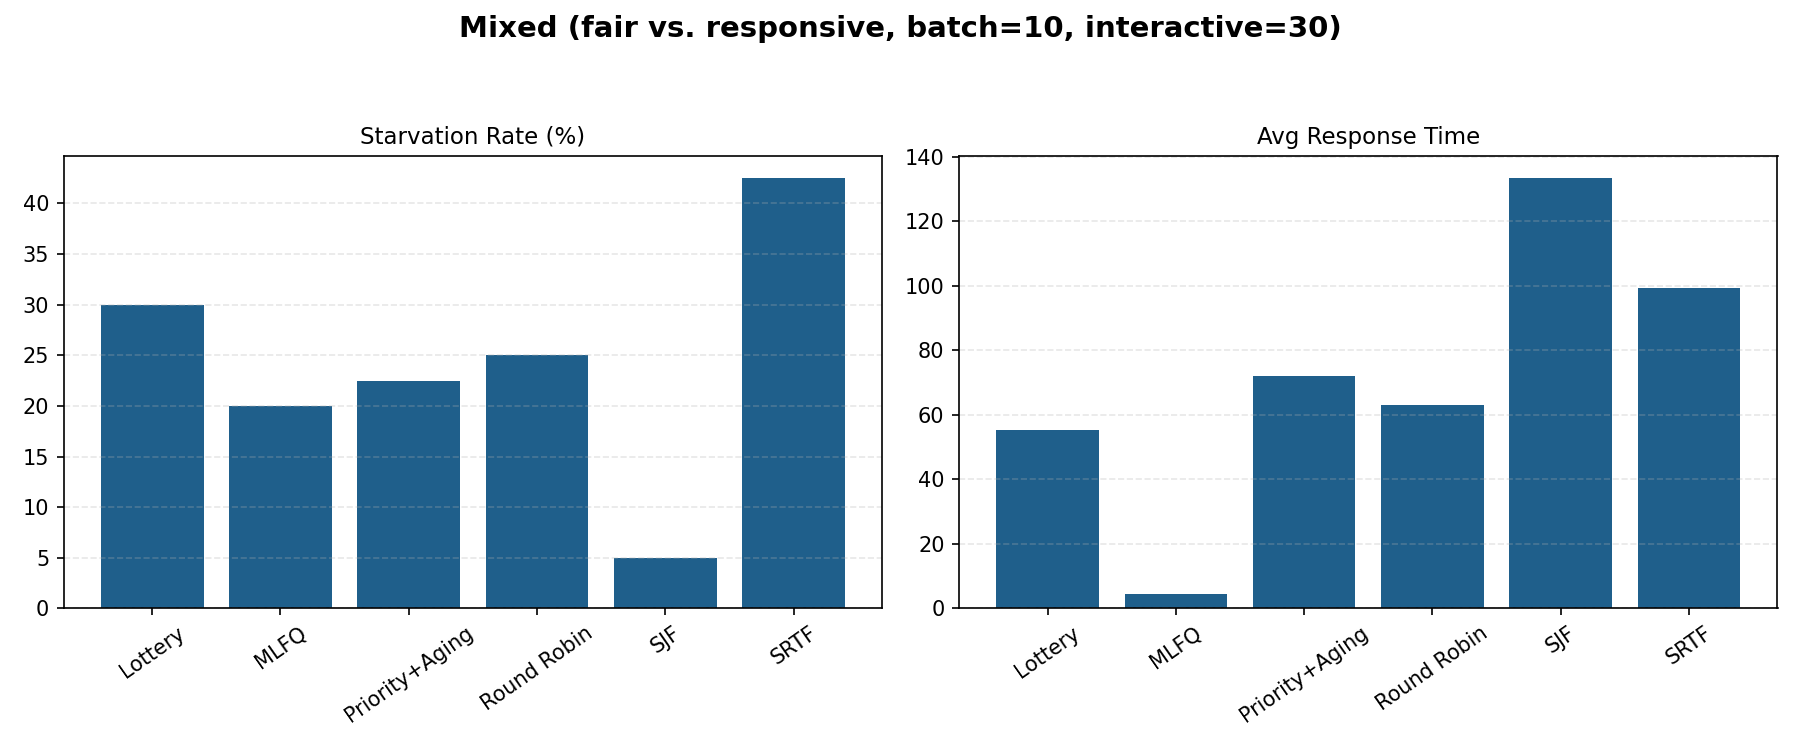
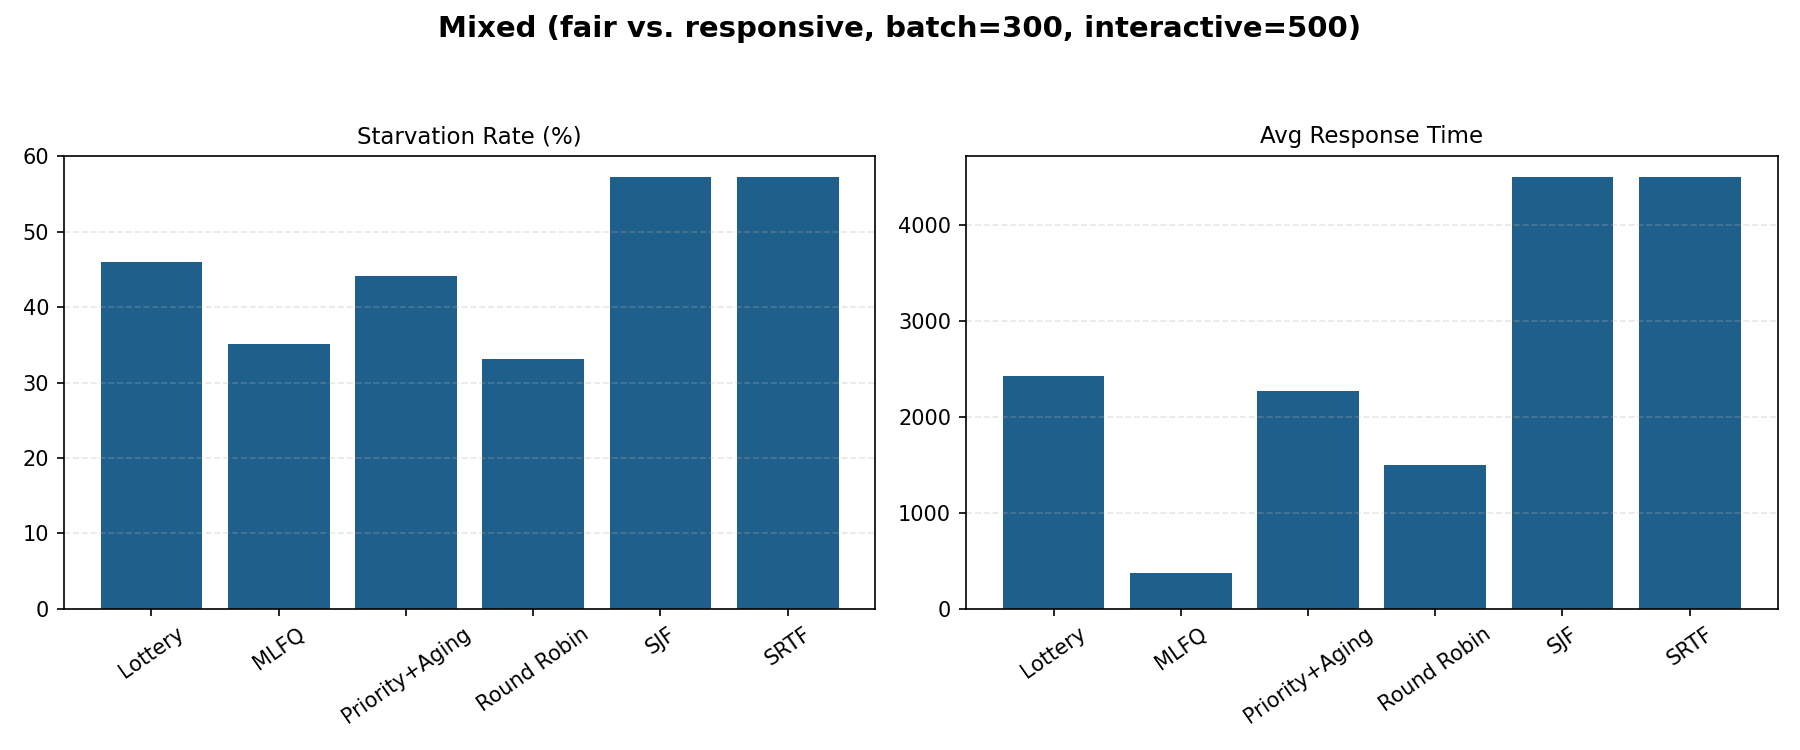
Change starvation metric to Gini-based starvation index

diff --git a/simulation/metrics.py b/simulation/metrics.py
@@ -1,7 +1,7 @@
 """Metrics computation for scheduling evaluation."""
 
 from dataclasses import dataclass
-from typing import List, Optional
+from typing import List
 
 from models.job import Job
 
@@ -13,31 +13,40 @@ class SimulationMetrics:
     avg_turnaround_time: float
     avg_response_time: float
     tail_latency_p95: float  # 95th percentile turnaround time
-    starvation_rate: float  # fraction of jobs with first-run wait > factor * burst
-    lifetime_starvation_rate: float  # fraction of jobs with total wait > factor * burst
+    starvation_rate: float  # starvation inequality index on first-run waits
+    lifetime_starvation_rate: float  # starvation inequality index on lifetime waits
     total_jobs: int
     completed_jobs: int
 
 
-def _median(values: List[float]) -> float:
+def _gini(values: List[float]) -> float:
+    """
+    Gini coefficient in [0, 1] for non-negative values.
+
+    0 means perfectly equal waits; larger values indicate stronger starvation
+    concentration (a subset of jobs waiting disproportionately longer).
+    """
     if not values:
         return 0.0
-    s = sorted(values)
-    mid = len(s) // 2
-    return (s[mid] + s[mid - 1]) / 2 if len(s) % 2 == 0 else s[mid]
+    s = sorted(float(v) for v in values)
+    n = len(s)
+    total = sum(s)
+    if total <= 0:
+        return 0.0
+    weighted_sum = 0.0
+    for i, value in enumerate(s, start=1):
+        weighted_sum += i * value
+    return (2.0 * weighted_sum) / (n * total) - (n + 1) / n
 
 
 def compute_metrics(
     completed_jobs: List[Job],
-    starvation_factor: float = 2.0,
 ) -> SimulationMetrics:
     """
     Compute all evaluation metrics from completed jobs.
 
-    Starvation uses a median-relative, scale-invariant definition: a job is
-    starved if its wait ratio (wait/burst) exceeds factor × the median ratio.
-    This distinguishes unfair schedulers (some jobs wait much longer than
-    typical) from fair ones (everyone waits similarly).
+    Starvation uses a distributional fairness metric: Gini coefficient of wait
+    times.
     """
     if not completed_jobs:
         return SimulationMetrics(
@@ -66,37 +75,19 @@ def compute_metrics(
     p95_idx = min(p95_idx, len(sorted_tt) - 1)
     tail_p95 = sorted_tt[p95_idx] if sorted_tt else 0.0
 
-    # First-run wait ratios: wait_before_first_run / burst
-    first_run_ratios = []
+    first_run_waits: List[float] = []
     for j in completed_jobs:
-        if j.first_run_time is not None and j.burst_time > 0:
+        if j.first_run_time is not None:
             wait = j.first_run_time - j.arrival_time
-            first_run_ratios.append(wait / j.burst_time)
-    median_first = _median(first_run_ratios) if first_run_ratios else 0.0
-    threshold_first = max(starvation_factor * median_first, 1.0)  # at least 1x burst
-    starvation_count = sum(
-        1 for j in completed_jobs
-        if j.first_run_time is not None and j.burst_time > 0
-        and (j.first_run_time - j.arrival_time) / j.burst_time > threshold_first
-    )
-    starvation_rate = starvation_count / len(completed_jobs) if completed_jobs else 0.0
+            first_run_waits.append(float(wait))
+    starvation_rate = _gini(first_run_waits)
 
-    # Lifetime: total_wait/burst ratios. Starved if ratio > factor × median.
-    lifetime_ratios = []
+    lifetime_waits: List[float] = []
     for j in completed_jobs:
-        if j.turnaround_time is not None and j.burst_time > 0:
+        if j.turnaround_time is not None:
             total_wait = j.turnaround_time - j.burst_time
-            lifetime_ratios.append(total_wait / j.burst_time)
-    median_lifetime = _median(lifetime_ratios) if lifetime_ratios else 0.0
-    threshold_lifetime = max(starvation_factor * median_lifetime, 1.0)
-    lifetime_starve_count = sum(
-        1 for j in completed_jobs
-        if j.turnaround_time is not None and j.burst_time > 0
-        and (j.turnaround_time - j.burst_time) / j.burst_time > threshold_lifetime
-    )
-    lifetime_starvation_rate = (
-        lifetime_starve_count / len(completed_jobs) if completed_jobs else 0.0
-    )
+            lifetime_waits.append(float(total_wait))
+    lifetime_starvation_rate = _gini(lifetime_waits)
 
     return SimulationMetrics(
         avg_turnaround_time=avg_tt,

diff --git a/experiments/runner.py b/experiments/runner.py
@@ -1,7 +1,7 @@
 """Experiment runner: run all schedulers on all workloads and compare."""
 
 from dataclasses import dataclass, field
-from typing import List, Type, Any
+from typing import List, Type
 
 from models.job import Job
 from schedulers.base import Scheduler
@@ -42,7 +42,6 @@ def run_experiments(
     schedulers: List[Type[Scheduler]] | None = None,
     quantum: int = 4,
     workload_seed: int = 42,
-    starvation_factor: float = 2.0,
     batch_num_jobs: int = 20,
     interactive_num_jobs: int = 50,
     mixed_num_batch: int = 10,
@@ -73,7 +72,7 @@ def run_experiments(
             scheduler = SchedulerClass()
             engine = SimulationEngine(scheduler=scheduler, quantum=quantum)
             completed = engine.run(jobs)
-            metrics = compute_metrics(completed, starvation_factor=starvation_factor)
+            metrics = compute_metrics(completed)
             results.append(
                 ExperimentResult(
                     scheduler_name=scheduler.name,
@@ -113,5 +112,5 @@ def print_results_table(results: List[ExperimentResult]) -> None:
                   f"{m.lifetime_starvation_rate*100:>10.2f}%")
 
     print("\n" + "=" * 100)
-    print("Starv(1st)  = % of jobs with first-run wait/burst > factor × median")
-    print("Starv(life) = % of jobs with total wait/burst > factor × median (median-relative)")
+    print("Starv(1st)  = Gini starvation index on first-run waits (0%..100%)")
+    print("Starv(life) = Gini starvation index on lifetime waits (0%..100%)")

diff --git a/platform_ui/app.py b/platform_ui/app.py
@@ -47,13 +47,6 @@ def main() -> None:
     with st.sidebar:
         st.header("Experiment Settings")
         quantum = st.number_input("Global quantum", min_value=1, value=4, step=1)
-        starvation_factor = st.number_input(
-            "Starvation factor (median-relative: wait/burst > factor × median)",
-            min_value=0.1,
-            value=2.0,
-            step=0.1,
-            format="%.1f",
-        )
         lottery_seed = st.number_input("Lottery seed", min_value=0, value=42, step=1)
 
         scheduler_names = st.multiselect(
@@ -94,7 +87,6 @@ def main() -> None:
                 jobs=jobs,
                 scheduler_names=scheduler_names,
                 quantum=quantum,
-                starvation_factor=starvation_factor,
                 lottery_seed=lottery_seed,
             )
         except ValueError as err:

diff --git a/main.py b/main.py
@@ -16,12 +16,6 @@ def parse_args() -> argparse.Namespace:
         "--seed", type=int, default=42, help="Random seed for workload generation."
     )
     parser.add_argument(
-        "--starvation-factor",
-        type=float,
-        default=2.0,
-        help="Starvation threshold = factor × burst_time (scale-invariant).",
-    )
-    parser.add_argument(
         "--batch-num-jobs",
         type=int,
         default=20,
@@ -63,7 +57,6 @@ def main() -> None:
     results = run_experiments(
         quantum=args.quantum,
         workload_seed=args.seed,
-        starvation_factor=args.starvation_factor,
         batch_num_jobs=args.batch_num_jobs,
         interactive_num_jobs=args.interactive_num_jobs,
         mixed_num_batch=args.mixed_num_batch,

diff --git a/platform_ui/experiment_service.py b/platform_ui/experiment_service.py
@@ -53,7 +53,6 @@ def run_platform_experiment(
     jobs: list[Job],
     scheduler_names: list[str],
     quantum: int,
-    starvation_factor: float,
     lottery_seed: int,
 ) -> list[PlatformRunResult]:
     if not jobs:
@@ -66,7 +65,7 @@ def run_platform_experiment(
         scheduler = build_scheduler(scheduler_name, lottery_seed=lottery_seed)
         engine = SimulationEngine(scheduler=scheduler, quantum=quantum)
         completed_jobs = engine.run(jobs)
-        metrics = compute_metrics(completed_jobs, starvation_factor=starvation_factor)
+        metrics = compute_metrics(completed_jobs)
         results.append(
             PlatformRunResult(
                 scheduler_name=scheduler.name,

diff --git a/README.md b/README.md
@@ -16,7 +16,7 @@ Customize experiment size/parameters from CLI:
 
 ```bash
 python main.py --batch-num-jobs 20 --interactive-num-jobs 50 --mixed-num-batch 10 --mixed-num-interactive 30
-python main.py --quantum 4 --starvation-factor 2.0 --seed 42 --no-viz
+python main.py --quantum 4 --seed 42 --no-viz
 ```
 
 ## Platform Extension (UI)
@@ -70,8 +70,8 @@ Scheduling-Simulator/
 | **Avg Turnaround Time** | Mean of (completion_time - arrival_time) across all jobs. Measures batch efficiency. |
 | **Avg Response Time** | Mean of (first_run_time - arrival_time). Measures interactive responsiveness. |
 | **Tail Latency (p95)** | 95th percentile turnaround time. Captures worst-case user experience. |
-| **Starv(1st)** | Fraction of jobs with (first-run wait / burst) > factor × median ratio. Flags unfair initial delay. |
-| **Starv(life)** | Fraction of jobs with (total wait / burst) > factor × median ratio. Flags unfair lifetime delay (e.g., MLFQ demoting long jobs). Default factor = 2.0. |
+| **Starv(1st)** | Gini starvation index on first-run waits (0% = perfectly equal waits, higher = more concentrated starvation). |
+| **Starv(life)** | Gini starvation index on lifetime waits (same interpretation). |
 
 ## Schedulers
 
@@ -116,7 +116,7 @@ Based on theoretical analysis from the project proposal:
 | SJF / SRTF | Low | Medium | High | High | High |
 | Lottery | Medium | Medium | Medium | Low | Medium |
 
-MLFQ is expected to show a split: near-zero first-run starvation (new jobs always enter queue 0) but medium-high lifetime starvation (long-running jobs are demoted and repeatedly delayed).
+MLFQ is expected to show a split: low first-run starvation (new jobs always enter queue 0) but higher lifetime starvation (long-running jobs are demoted and repeatedly delayed).
 
 **Batch workloads**: SJF/SRTF expected to achieve best turnaround. Round Robin and Lottery provide more stable fairness at higher turnaround cost.
 
@@ -128,4 +128,4 @@ MLFQ is expected to show a split: near-zero first-run starvation (new jobs alway
 
 - Add schedulers in `schedulers/` (subclass `Scheduler`)
 - Add workloads in `workloads/generator.py`
-- Tune parameters in `experiments/runner.py` (quantum, starvation factor, etc.)
+- Tune parameters in `experiments/runner.py` (quantum, workload size, etc.)
